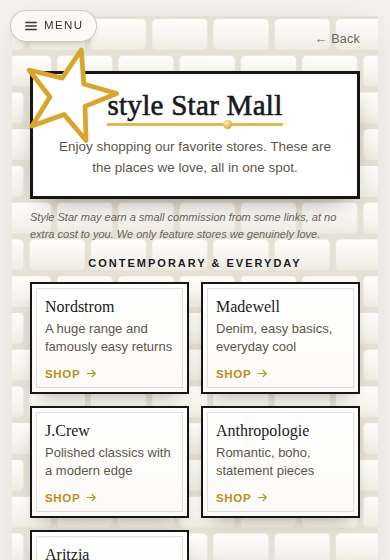
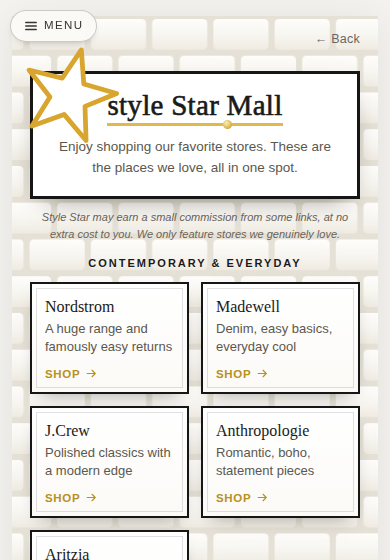
Center the Mall's affiliate disclosure
Scoped to #s-shop only; the Edit's disclosure was already centered via
inheritance and is untouched.

Claude-Session: https://claude.ai/code/session_01N9H8P2qHxAcmm4mKFZsjPr

Changed region(s): [[0.0615, 0.3643, 0.8923, 0.425]]

diff --git a/index.html b/index.html
@@ -989,7 +989,7 @@ body.card-fb{padding:0}
 #s-shop .mall-brick-bg{position:absolute;inset:0;z-index:0;width:100%;height:100%}
 #s-shop .mall-inner{position:relative;z-index:1;padding:12px 18px 34px}
 #s-shop .top-back-wrap{margin:0 -2px 4px 0}
-#s-shop .dc-disclosure{color:#6b6459;margin-top:10px}
+#s-shop .dc-disclosure{color:#6b6459;margin-top:10px;text-align:center}
 #mallContent .mall-cat:first-child{margin-top:.8rem}
 .mall-sign{position:relative;background:#fff;border:3px solid #161616;padding:15px 16px 17px;margin:21px 0 6px;text-align:center;box-shadow:0 11px 26px -15px rgba(20,15,5,.6)}
 /* White+gold-outline star "light fixture", tilted, stuck onto the top-left corner of the sign (absolute, no layout shift) */
